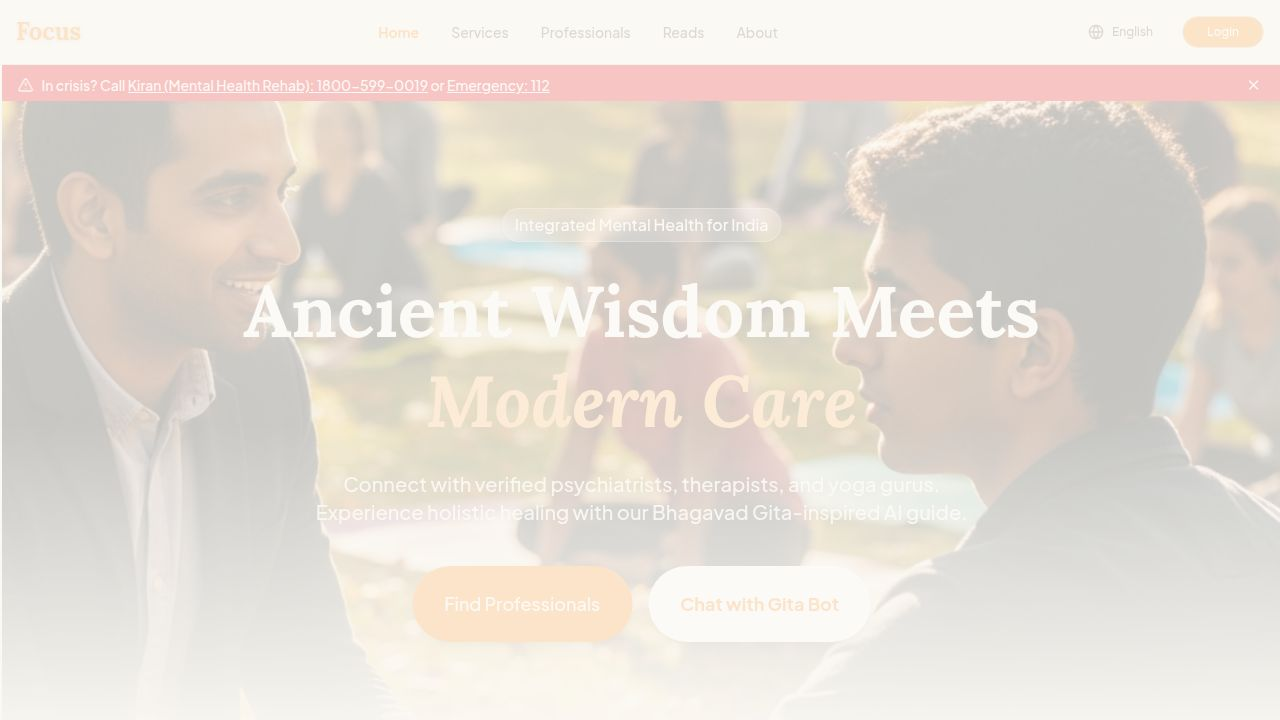
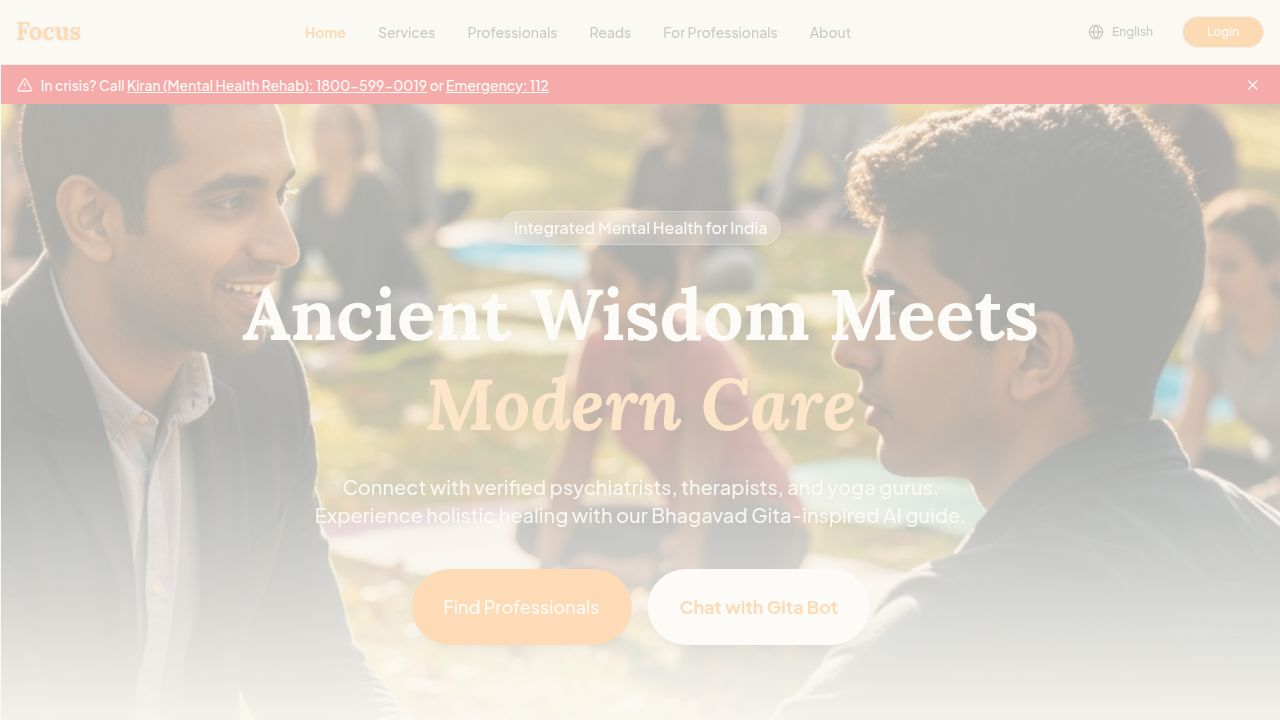
Create a dedicated dashboard for mental health professionals
Adds a new route for the professional dashboard, updates the navbar and login components to handle user roles, and introduces the ProfessionalDashboard page with role-specific navigation and UI elements.

Replit-Commit-Author: Agent
Replit-Commit-Session-Id: c5957521-eba2-473e-9073-e5df08816967
Replit-Commit-Checkpoint-Type: full_checkpoint
Replit-Commit-Event-Id: 70431bf3-a28b-463e-9aa2-25f75e7656b7
Replit-Commit-Screenshot-Url: https://storage.googleapis.com/screenshot-production-us-central1/f38cb7eb-8c87-4cb3-a545-fcbd737e7d6a/c5957521-eba2-473e-9073-e5df08816967/QokGAfW
Replit-Helium-Checkpoint-Created: true

diff --git a/client/src/pages/ProfessionalDashboard.tsx b/client/src/pages/ProfessionalDashboard.tsx
@@ -1,0 +1,232 @@
+import { PageTransition } from "@/components/PageTransition";
+import { Button } from "@/components/ui/button";
+import { Card, CardContent, CardHeader, CardTitle, CardDescription } from "@/components/ui/card";
+import { Badge } from "@/components/ui/badge";
+import { Avatar, AvatarFallback, AvatarImage } from "@/components/ui/avatar";
+import { Switch } from "@/components/ui/switch";
+import { 
+  LayoutDashboard, 
+  Calendar, 
+  Users, 
+  Wallet, 
+  MessageSquare, 
+  Video, 
+  Clock, 
+  TrendingUp, 
+  Star,
+  Bell,
+  Settings
+} from "lucide-react";
+import { useState } from "react";
+import dashboardImg from "@assets/generated_images/professional_therapist_dashboard_with_analytics_and_appointments.png";
+
+export default function ProfessionalDashboard() {
+  const [isOnline, setIsOnline] = useState(true);
+
+  const stats = [
+    { label: "Today's Earnings", value: "₹2,450", change: "+12%", icon: Wallet, color: "text-green-600 bg-green-100" },
+    { label: "Total Sessions", value: "8", change: "4 pending", icon: Video, color: "text-blue-600 bg-blue-100" },
+    { label: "Profile Views", value: "142", change: "+24%", icon: Users, color: "text-purple-600 bg-purple-100" },
+    { label: "Avg. Rating", value: "4.9", change: "124 reviews", icon: Star, color: "text-yellow-600 bg-yellow-100" },
+  ];
+
+  const upcomingSessions = [
+    { id: 1, client: "Rahul Verma", time: "10:00 AM", type: "Video Call", status: "Upcoming", img: "https://images.unsplash.com/photo-1599566150163-29194dcaad36?w=100&auto=format&fit=crop&q=60" },
+    { id: 2, client: "Sneha Gupta", time: "11:30 AM", type: "Chat", status: "Upcoming", img: "https://images.unsplash.com/photo-1494790108377-be9c29b29330?w=100&auto=format&fit=crop&q=60" },
+    { id: 3, client: "Amit Patel", time: "02:00 PM", type: "Video Call", status: "Pending", img: "https://images.unsplash.com/photo-1535713875002-d1d0cf377fde?w=100&auto=format&fit=crop&q=60" },
+  ];
+
+  return (
+    <PageTransition>
+      <div className="min-h-screen bg-muted/20 flex">
+        {/* Sidebar */}
+        <aside className="w-64 bg-background border-r hidden md:flex flex-col fixed h-[calc(100vh-64px)] top-16">
+          <div className="p-6">
+            <div className="flex items-center gap-3 mb-8">
+              <Avatar className="h-12 w-12 border-2 border-primary">
+                <AvatarImage src="https://images.unsplash.com/photo-1612349317150-e413f6a5b16d?auto=format&fit=crop&q=80&w=200&h=200" />
+                <AvatarFallback>DR</AvatarFallback>
+              </Avatar>
+              <div>
+                <h3 className="font-bold text-sm">Dr. Arjun Mehta</h3>
+                <p className="text-xs text-muted-foreground">Psychiatrist</p>
+              </div>
+            </div>
+            
+            <nav className="space-y-2">
+              <Button variant="secondary" className="w-full justify-start gap-3 font-medium">
+                <LayoutDashboard className="w-4 h-4" /> Dashboard
+              </Button>
+              <Button variant="ghost" className="w-full justify-start gap-3 font-medium text-muted-foreground">
+                <Calendar className="w-4 h-4" /> Appointments
+              </Button>
+              <Button variant="ghost" className="w-full justify-start gap-3 font-medium text-muted-foreground">
+                <Users className="w-4 h-4" /> My Patients
+              </Button>
+              <Button variant="ghost" className="w-full justify-start gap-3 font-medium text-muted-foreground">
+                <Wallet className="w-4 h-4" /> Earnings
+              </Button>
+              <Button variant="ghost" className="w-full justify-start gap-3 font-medium text-muted-foreground">
+                <MessageSquare className="w-4 h-4" /> Messages
+              </Button>
+              <Button variant="ghost" className="w-full justify-start gap-3 font-medium text-muted-foreground">
+                <TrendingUp className="w-4 h-4" /> Analytics
+              </Button>
+              <Button variant="ghost" className="w-full justify-start gap-3 font-medium text-muted-foreground">
+                <Settings className="w-4 h-4" /> Settings
+              </Button>
+            </nav>
+          </div>
+          
+          <div className="mt-auto p-6 border-t bg-muted/10">
+            <div className="flex items-center justify-between mb-2">
+              <span className="text-sm font-medium">Availability</span>
+              <Switch checked={isOnline} onCheckedChange={setIsOnline} />
+            </div>
+            <p className="text-xs text-muted-foreground">
+              {isOnline ? "You are visible to clients" : "You are currently offline"}
+            </p>
+          </div>
+        </aside>
+
+        {/* Main Content */}
+        <main className="flex-1 md:ml-64 p-6 lg:p-8">
+          <div className="max-w-6xl mx-auto space-y-8">
+            
+            {/* Header */}
+            <div className="flex flex-col md:flex-row md:items-center justify-between gap-4">
+              <div>
+                <h1 className="text-3xl font-bold font-serif">Dashboard</h1>
+                <p className="text-muted-foreground">Welcome back, Dr. Mehta. You have 3 upcoming sessions.</p>
+              </div>
+              <div className="flex items-center gap-3">
+                <Button variant="outline" size="icon" className="rounded-full">
+                  <Bell className="w-5 h-5" />
+                </Button>
+                <Button className="rounded-full gap-2 bg-primary">
+                  <Clock className="w-4 h-4" /> Schedule Break
+                </Button>
+              </div>
+            </div>
+
+            {/* Stats Grid */}
+            <div className="grid sm:grid-cols-2 lg:grid-cols-4 gap-4">
+              {stats.map((stat, i) => (
+                <Card key={i} className="border-none shadow-sm hover:shadow-md transition-shadow">
+                  <CardContent className="p-6">
+                    <div className="flex justify-between items-start mb-4">
+                      <div className={`p-3 rounded-xl ${stat.color}`}>
+                        <stat.icon className="w-6 h-6" />
+                      </div>
+                      <Badge variant="outline" className="font-normal">
+                        {stat.change}
+                      </Badge>
+                    </div>
+                    <div className="space-y-1">
+                      <p className="text-sm text-muted-foreground">{stat.label}</p>
+                      <h3 className="text-2xl font-bold">{stat.value}</h3>
+                    </div>
+                  </CardContent>
+                </Card>
+              ))}
+            </div>
+
+            <div className="grid lg:grid-cols-3 gap-8">
+              {/* Upcoming Sessions */}
+              <div className="lg:col-span-2 space-y-6">
+                <Card className="border-none shadow-sm">
+                  <CardHeader>
+                    <CardTitle>Today's Schedule</CardTitle>
+                    <CardDescription>Your appointments for {new Date().toLocaleDateString('en-US', { weekday: 'long', month: 'long', day: 'numeric' })}</CardDescription>
+                  </CardHeader>
+                  <CardContent>
+                    <div className="space-y-4">
+                      {upcomingSessions.map((session) => (
+                        <div key={session.id} className="flex items-center justify-between p-4 bg-muted/30 rounded-xl border border-transparent hover:border-primary/20 transition-all">
+                          <div className="flex items-center gap-4">
+                            <Avatar>
+                              <AvatarImage src={session.img} />
+                              <AvatarFallback>{session.client.charAt(0)}</AvatarFallback>
+                            </Avatar>
+                            <div>
+                              <h4 className="font-bold">{session.client}</h4>
+                              <p className="text-sm text-muted-foreground flex items-center gap-2">
+                                <Clock className="w-3 h-3" /> {session.time} • {session.type}
+                              </p>
+                            </div>
+                          </div>
+                          <div className="flex items-center gap-3">
+                            <Badge variant={session.status === "Upcoming" ? "default" : "secondary"}>
+                              {session.status}
+                            </Badge>
+                            <Button size="sm" variant="outline">View Details</Button>
+                          </div>
+                        </div>
+                      ))}
+                    </div>
+                  </CardContent>
+                </Card>
+
+                {/* Patient Analytics Graph Area */}
+                <Card className="border-none shadow-sm overflow-hidden">
+                  <CardHeader>
+                    <CardTitle>Patient Analytics</CardTitle>
+                    <CardDescription>Weekly consultation overview</CardDescription>
+                  </CardHeader>
+                  <CardContent className="p-0">
+                    <img 
+                      src={dashboardImg} 
+                      alt="Analytics Graph" 
+                      className="w-full h-64 object-cover object-top"
+                    />
+                  </CardContent>
+                </Card>
+              </div>
+
+              {/* Right Sidebar - Recent Activity */}
+              <div className="space-y-6">
+                <Card className="border-none shadow-sm bg-primary text-primary-foreground">
+                  <CardHeader>
+                    <CardTitle className="flex items-center gap-2">
+                      <Wallet className="w-5 h-5" /> Wallet Balance
+                    </CardTitle>
+                  </CardHeader>
+                  <CardContent>
+                    <div className="text-4xl font-bold mb-2">₹12,450</div>
+                    <p className="text-primary-foreground/80 text-sm mb-6">Available for withdrawal</p>
+                    <Button variant="secondary" className="w-full font-bold">
+                      Withdraw Funds
+                    </Button>
+                  </CardContent>
+                </Card>
+
+                <Card className="border-none shadow-sm">
+                  <CardHeader>
+                    <CardTitle>Recent Activity</CardTitle>
+                  </CardHeader>
+                  <CardContent>
+                    <div className="space-y-6 relative before:absolute before:left-2 before:top-2 before:bottom-2 before:w-0.5 before:bg-muted">
+                      {[
+                        { title: "Session completed", desc: "with Rahul Verma", time: "2h ago" },
+                        { title: "New review received", desc: "5 stars from Priya", time: "4h ago" },
+                        { title: "Payment received", desc: "₹800 credited", time: "5h ago" },
+                        { title: "Profile updated", desc: "New availability set", time: "1d ago" },
+                      ].map((item, i) => (
+                        <div key={i} className="relative pl-8">
+                          <div className="absolute left-0 top-1.5 w-4 h-4 rounded-full bg-background border-2 border-primary z-10"></div>
+                          <h4 className="font-medium text-sm">{item.title}</h4>
+                          <p className="text-xs text-muted-foreground">{item.desc}</p>
+                          <span className="text-[10px] text-muted-foreground mt-1 block">{item.time}</span>
+                        </div>
+                      ))}
+                    </div>
+                  </CardContent>
+                </Card>
+              </div>
+            </div>
+          </div>
+        </main>
+      </div>
+    </PageTransition>
+  );
+}

diff --git a/client/src/components/layout/Navbar.tsx b/client/src/components/layout/Navbar.tsx
@@ -16,11 +16,13 @@ export function Navbar() {
   const [isOpen, setIsOpen] = useState(false);
   const [lang, setLang] = useState("English");
   const [isLoggedIn, setIsLoggedIn] = useState(false);
+  const [userRole, setUserRole] = useState('client');
 
   useEffect(() => {
     // Check initial state
     const checkAuth = () => {
       setIsLoggedIn(localStorage.getItem('isLoggedIn') === 'true');
+      setUserRole(localStorage.getItem('userRole') || 'client');
     };
     checkAuth();
 
@@ -31,9 +33,10 @@ export function Navbar() {
 
   const handleLogout = () => {
     localStorage.removeItem('isLoggedIn');
+    localStorage.removeItem('userRole');
     window.dispatchEvent(new Event('auth-change'));
     // Optional: redirect to home
-    if (window.location.pathname === '/profile') {
+    if (window.location.pathname === '/profile' || window.location.pathname === '/professional-dashboard') {
       window.location.href = '/';
     }
   };
@@ -106,12 +109,20 @@ export function Navbar() {
                 </Button>
               </DropdownMenuTrigger>
               <DropdownMenuContent align="end">
-                <Link href="/profile">
-                  <DropdownMenuItem className="cursor-pointer">My Profile</DropdownMenuItem>
-                </Link>
-                <Link href="/wallet">
-                  <DropdownMenuItem className="cursor-pointer">Wallet (₹0.00)</DropdownMenuItem>
-                </Link>
+                {userRole === 'professional' ? (
+                  <Link href="/professional-dashboard">
+                    <DropdownMenuItem className="cursor-pointer">Professional Dashboard</DropdownMenuItem>
+                  </Link>
+                ) : (
+                  <>
+                    <Link href="/profile">
+                      <DropdownMenuItem className="cursor-pointer">My Profile</DropdownMenuItem>
+                    </Link>
+                    <Link href="/wallet">
+                      <DropdownMenuItem className="cursor-pointer">Wallet (₹0.00)</DropdownMenuItem>
+                    </Link>
+                  </>
+                )}
                 <DropdownMenuSeparator />
                 <DropdownMenuItem onClick={handleLogout} className="text-red-600 cursor-pointer">
                   <LogOut className="w-4 h-4 mr-2" /> Logout
@@ -149,12 +160,20 @@ export function Navbar() {
           ))}
           {isLoggedIn ? (
             <>
-              <Link href="/profile" className="text-lg font-medium py-2 text-muted-foreground" onClick={() => setIsOpen(false)}>
-                My Profile
-              </Link>
-              <Link href="/wallet" className="text-lg font-medium py-2 text-muted-foreground" onClick={() => setIsOpen(false)}>
-                Wallet (₹0.00)
-              </Link>
+              {userRole === 'professional' ? (
+                <Link href="/professional-dashboard" className="text-lg font-medium py-2 text-muted-foreground" onClick={() => setIsOpen(false)}>
+                  Dashboard
+                </Link>
+              ) : (
+                <>
+                  <Link href="/profile" className="text-lg font-medium py-2 text-muted-foreground" onClick={() => setIsOpen(false)}>
+                    My Profile
+                  </Link>
+                  <Link href="/wallet" className="text-lg font-medium py-2 text-muted-foreground" onClick={() => setIsOpen(false)}>
+                    Wallet (₹0.00)
+                  </Link>
+                </>
+              )}
               <Button 
                 variant="ghost" 
                 className="w-full justify-start text-red-600 hover:text-red-700 hover:bg-red-50" 

diff --git a/client/src/pages/Login.tsx b/client/src/pages/Login.tsx
@@ -12,6 +12,7 @@ export default function Login() {
   const [, setLocation] = useLocation();
   const [isLoading, setIsLoading] = useState(false);
   const [showPassword, setShowPassword] = useState(false);
+  const [isProfessional, setIsProfessional] = useState(false);
   
   const handleLogin = (e: React.FormEvent) => {
     e.preventDefault();
@@ -20,9 +21,10 @@ export default function Login() {
     // Simulate login delay
     setTimeout(() => {
       localStorage.setItem('isLoggedIn', 'true');
+      localStorage.setItem('userRole', isProfessional ? 'professional' : 'client');
       window.dispatchEvent(new Event('auth-change'));
       setIsLoading(false);
-      setLocation("/profile");
+      setLocation(isProfessional ? "/professional-dashboard" : "/profile");
     }, 1500);
   };
 
@@ -57,8 +59,25 @@ export default function Login() {
 
           <div className="w-full max-w-[420px] mx-auto space-y-8">
             <div className="text-left space-y-2">
-              <h1 className="text-2xl md:text-3xl font-serif font-bold text-foreground tracking-tight">Welcome Back</h1>
-              <p className="text-base text-muted-foreground">Sign in to continue your journey to wellness.</p>
+              <div className="flex justify-between items-center">
+                <h1 className="text-2xl md:text-3xl font-serif font-bold text-foreground tracking-tight">Welcome Back</h1>
+              </div>
+              <p className="text-base text-muted-foreground">Sign in to continue your journey.</p>
+            </div>
+            
+            <div className="bg-muted/30 p-1 rounded-xl flex">
+              <button 
+                className={`flex-1 py-2 text-sm font-medium rounded-lg transition-all ${!isProfessional ? 'bg-background shadow-sm text-primary' : 'text-muted-foreground hover:text-foreground'}`}
+                onClick={() => setIsProfessional(false)}
+              >
+                Client Login
+              </button>
+              <button 
+                className={`flex-1 py-2 text-sm font-medium rounded-lg transition-all ${isProfessional ? 'bg-background shadow-sm text-primary' : 'text-muted-foreground hover:text-foreground'}`}
+                onClick={() => setIsProfessional(true)}
+              >
+                Professional Login
+              </button>
             </div>
 
             <form onSubmit={handleLogin} className="space-y-6">

diff --git a/client/src/App.tsx b/client/src/App.tsx
@@ -35,6 +35,7 @@ import Feedback from "@/pages/Feedback";
 import FormulaGuide from "@/pages/FormulaGuide";
 import PartnerWithUs from "@/pages/PartnerWithUs";
 import WalletPage from "@/pages/Wallet";
+import ProfessionalDashboard from "@/pages/ProfessionalDashboard";
 import NotFound from "@/pages/not-found";
 
 function PageLoader() {
@@ -63,6 +64,7 @@ function Router() {
           <Route path="/profile" component={Profile} />
           <Route path="/partner" component={PartnerWithUs} />
           <Route path="/wallet" component={WalletPage} />
+          <Route path="/professional-dashboard" component={ProfessionalDashboard} />
           <Route path="/formula-guide" component={FormulaGuide} />
           <Route component={NotFound} />
         </Switch>
